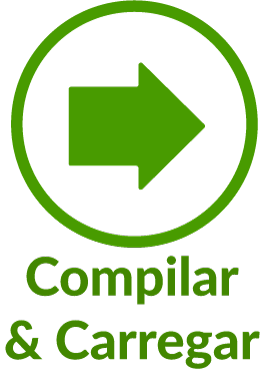
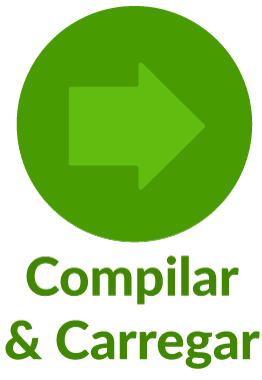
Nomes imagens corrigidos, botões animados

diff --git a/src/Menu.py b/src/Menu.py
@@ -54,13 +54,19 @@ class Menu(QWidget):
         layout = QVBoxLayout(menu)
         menu.setStyleSheet("background-color: '#5cb50d';")
 
-        btn_compilar = botaoImagem(QPixmap(os.path.join('recursos', 'compilarFoco.png')), self)
-        btn_compilar_e_carregar = botaoImagem(QPixmap(os.path.join('recursos', 'carregarFoco.png')), self)
+        btn_compilar = botaoImagem(QPixmap(os.path.join('recursos', 'compilar.png')),
+                                   QPixmap(os.path.join('recursos', 'compilarFoco.png')), self)
+        btn_compilar_e_carregar = botaoImagem(QPixmap(os.path.join('recursos', 'carregar.png')),
+                                              QPixmap(os.path.join('recursos', 'carregarFoco.png')), self)
         btn_compilar_e_carregar.setFixedSize(50, 70)
-        btn_novo = botaoImagem(QPixmap(os.path.join('recursos', 'novoArquivoFoco.png')), self)
-        btn_abrir = botaoImagem(QPixmap(os.path.join('recursos', 'abrirPastaFoco.png')), self)
-        btn_salvar = botaoImagem(QPixmap(os.path.join('recursos', 'salvarFoco.png')), self)
-        btn_monitor_serial = botaoImagem(QPixmap(os.path.join('recursos', 'monitorSerialFoco.png')), self)
+        btn_novo = botaoImagem(QPixmap(os.path.join('recursos', 'novoArquivo.png')),
+                               QPixmap(os.path.join('recursos', 'novoArquivoFoco.png')), self)
+        btn_abrir = botaoImagem(QPixmap(os.path.join('recursos', 'abrirPasta.png')),
+                                QPixmap(os.path.join('recursos', 'abrirPastaFoco.png')), self)
+        btn_salvar = botaoImagem(QPixmap(os.path.join('recursos', 'salvar.png')),
+                                 QPixmap(os.path.join('recursos', 'salvarFoco.png')), self)
+        btn_monitor_serial = botaoImagem(QPixmap(os.path.join('recursos', 'monitorSerial.png')),
+                                         QPixmap(os.path.join('recursos', 'monitorSerialFoco.png')), self)
         btn_monitor_serial.setFixedSize(50, 50)
 
         layout.setContentsMargins(5, 5, 5, 5)

diff --git a/src/BotaoImagem.py b/src/BotaoImagem.py
@@ -40,21 +40,37 @@ email: victor.pacheco@brino.cc
 
 
 class botaoImagem(QAbstractButton):
-    def __init__(self, pixmap, parent=None):
+    def __init__(self, pixmap, hover_pixmap, parent=None):
         super(botaoImagem, self).__init__(parent)
         self.pixmap = pixmap
+        self.hover_pixmap = hover_pixmap
         self.installEventFilter(self)
+        self.estado_botao = False
 
     def paintEvent(self, event):
         painter = QPainter(self)
-        painter.drawPixmap(event.rect(), self.pixmap)
+        if self.estado_botao == False:
+            painter.drawPixmap(event.rect(), self.pixmap)
+        if self.estado_botao == True:
+            painter.drawPixmap(event.rect(), self.hover_pixmap)
 
     def sizeHint(self):
         return QSize(50, 63)
 
+    def enterEvent(self, QEvent):
+        self.estado_botao = True
+        self.update()
+
+    def leaveEvent(self, QEvent):
+        self.estado_botao = False
+        self.update()
+
     def eventFilter(self, object, event):
-        if event.type() == QEvent.HoverMove:
+        if event.type() == QAbstractButton.enterEvent:
             print "Hovering"
             return True
+        if event.type() == QAbstractButton.leaveEvent:
+            print "UnHovering"
+            pass
 
         return False
